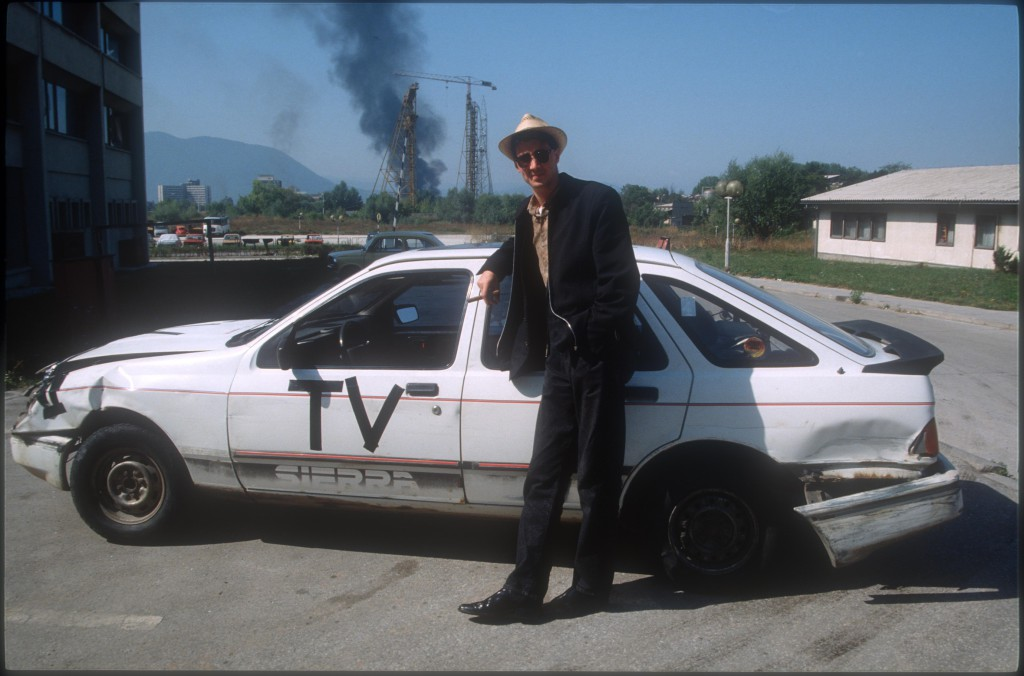
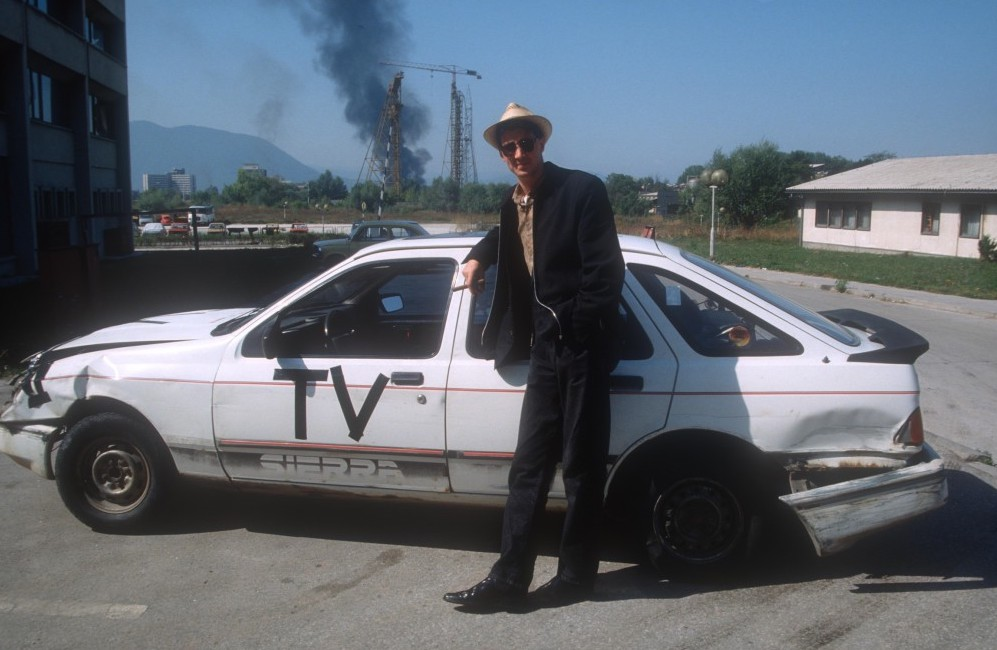
fixes_00

diff --git a/content/memoriam/paul-marchand.md b/content/memoriam/paul-marchand.md
@@ -2,8 +2,8 @@
 name: "Paul Marchand"
 born: 1961
 died: 2009
-banner: 00-PAUL-EN-2-scaled.jpg
-cover: cover.jpg
+banner: PAUL_MARCHAND_BANNER.jpg
+cover: PAUL_MARCHAND_COVER.jpg
 excerpt: "Paul Marchand was born on 1 October in 1961. in Amiens, France. He studied at the Institute for political science in Grenoble. Paul started his career as a journalist in a small private radio station "
 ---
 Paul Marchand was born on 1 October in 1961. in Amiens, France. He studied at the Institute for political science in Grenoble. Paul started his career as a journalist in a small private radio station ‘Radio 100’ managed by Hélène Tavelle. At the same time, he took criminology lessons and did internships at the hospital morgue. Barely 22 years old, he abandoned his studies and left to report in Beirut during their civil war. Six months later, he was a correspondent for Radio-France and several Canadian media. For many years, he was the only Western journalist to practice in West Beirut, on the Muslim side. The French government considering that he is in danger, forcibly expels him to Cyprus: Paul fled and returned to West Beirut.
@@ -41,8 +41,6 @@ The movie director Guillaume de Fontenay tried to collect funding for the movie 
 
 ![Paul Marchand](/media/memoriam/paul-marchand/03-PAUL.jpg)
 
-Trailer for the film ‘The Sympathy for the Devil’ you can watch here.
-
 “At the time, the war in Bosnia was intimately linked to the voice of Paul Marchand, whose stories I heard from Radio-Canada,” recalls the filmmaker who offers his first film. It is a conflict that shocked me; to see that the international community has left like this for four years of siege where dozens of civilians, on average, died every day. I still have this problem with our collective apathy: The same thing is repeated in Syria.” Guillaume de Fontenay
 
 Co-producer of ‘Sympathy for the Devil’ Amra Bakšić Čamo considers that a war reporter cannot separate himself from his subjects. “His book is thus more interesting since it depicts a journalist who leave a typical journalist atmosphere. Suddenly, he had friends who lose members of their family and are starving to death. For most journalists it is a sort of blitzkrieg: they come there for a while, write their story, go back home and strive not to bring those experiences into their everyday life. But for those who remained and were in Sarajevo for a long period of time, their lives have changed forever.” explains Amra, and afterwards she asks: “How did they manage to draw a line between objectivity and lives of the Sarajevo people? I think that we must always be conscious of the fact that we are not only making movies for tomorrow; we make movies for eternity. So, it is not only the matter of the direct impact of the movie distribution in Bosnia and Herzegovina or France in the present, but of the fact how will be this movie perceived 40 years after its premiere”, Amra Bakšić Čamo concludes.
@@ -58,6 +56,7 @@ Paul Marchand
 ![Paul Marchand](/media/memoriam/paul-marchand/08-PAUL.jpg)
 
 Paul and Boba having dinner before he was wounded. October 1993, Sarajevo.
+
 Photo © private archive
 
 Behind this brave man who came to the most dangerous place on earth, to convey the truth about the sufferings and killings of Sarajevans, there will be this book, this film ‘Sympathy for the Devil’ which will tell a story of a great love during the war. Love that ignited amidst war in the city that was about to be burnt and dead, in a city that survived all the bullets and bombs. Love was stronger than all of it. Slobodanka Boba Lizdek knows that very well.
@@ -81,7 +80,7 @@ He left us on 20 June 2009 in Paris, France.
 
 __
 
-Cover Photo: Emmanuel Ortiz
+
 Special thanks to: Slobodanki Boba Lizdek
 Translations: Asmir i Edina Demir
 Sources: Klix.ba, Oslobodjenje.ba, Azra.ba & BalkanInsight.com

diff --git a/content/memoriam/danilo-krstanovic.md b/content/memoriam/danilo-krstanovic.md
@@ -85,7 +85,9 @@ Peter Andrews
 
 ![Danilo Krstanovic](/media/memoriam/danilo-krstanovic/DANILO-09.jpg)
 
-Danilo Krstanovic and Peter Andrews helping a wounded woman, 28 August 1995.
+Danilo Krstanovic and Peter Andrews helping a wounded woman, 28 August 1995.  
+
+
 Rikard Larma
 
 During the war in Bosnia and Herzegovina, Danilo had two exhibitions about Sarajevo. The first one in 1993, titled Sarajevo War Pictures, and the second one titled Sarajevo. The exhibition toured Europe and in 1996 was donated to the Art Gallery of BIH. In addition to high artistic qualities, Danilo Krstanovic’s photos have great documentary value for the future study of the aggression against our country and all that it brought with it. He was a member of the Sarajevo Photo Club and was holder of the title First-Class Photographer. He participated in numerous exhibitions in Bosnia and abroad receiving many awards and commendations for his photographs.
@@ -96,7 +98,6 @@ During the war in Bosnia and Herzegovina, Danilo had two exhibitions about Saraj
 
 Danilo Krstanovic
 
-Danilo’s gallery of ‘Sarajevo Under Siege’
 
 During the war Danilo and his colleagues would count film strips by centimeters, they would weigh paper and chemicals by grams, take photographs, cry, suffer, starve but would not give up, out of spite to them. “This craziness will pass. Will you ever be able to look us in the eye? Better not, let the memories about our parties and barbecues until early morning hours stay intact. Let the memory of the Olympic Games live, when we used to work together as one. We used to go to the forest camping together. Today I don’t want to invite you to come back from your woods, you traitors. You betrayed the people and our honorable profession. That’s why you need to stay in the woods. Amongst the werewolves, where you belong.” Danilo Krstanovic
 
@@ -108,7 +109,8 @@ Danilo Krstanovic
 
 ![Danilo Krstanovic](/media/memoriam/danilo-krstanovic/DANILO-12.jpg)
 
-Newlyweds Emir i Sanela Klaric, 29 July 1995, Sarajevo.
+Newlyweds Emir i Sanela Klaric, 29 July 1995, Sarajevo.  
+
 Danilo Krstanovic
 
 ![Danilo Krstanovic](/media/memoriam/danilo-krstanovic/DANILO-10.jpg)
@@ -122,6 +124,9 @@ DANILO KRSTANOVIC was born on 17 July 1951 in Sarajevo, Bosnia and Herzegovina.
 He passed away on 12 May 2012, in his city, Sarajevo.
 
 
+
+  
+__  
 
 
 Special thanks to: Renata Krstanovic, Peter Andrews, Rikard Larma and Amel Emric

diff --git a/content/memoriam/gerard-rondeau.md b/content/memoriam/gerard-rondeau.md
@@ -5,7 +5,7 @@ died: 2016
 banner: 00-GERARD-scaled.jpg
 cover: cover.jpg
 photographer: gerard-rondeau-1953-2016
-excerpt: "Gérard Rondeau was born in Chalons-en-Champagne on 10 April in 1953, in a family of teachers. He studied in Reims and in the 1970s he worked at the Alliance Française in Colombo, Sri Lanka. The discov"
+excerpt: "Gérard Rondeau was born in Chalons-en-Champagne on 10 April in 1953, in a family of teachers. He studied in Reims and in the 1970s he worked at the Alliance Française in Colombo, Sri Lanka."
 ---
 Gérard Rondeau was born in Chalons-en-Champagne on 10 April in 1953, in a family of teachers. He studied in Reims and in the 1970s he worked at the Alliance Française in Colombo, Sri Lanka. The discovery of Henri Cartier-Bresson’s book about the USSR, in the library of the Alliance, was a revelation for him. As soon as he was back in Champagne, he launched his career as a self-taught photographer. or over more than twenty years, he maintained a close partnership with the newspaper Le Monde, producing a large portrait collection of painters and contemporary writers, with lasting friendships emerging from those interactions. He photographed the painter Paul Rebeyrolle in action and traveled the battlefields of the First World War with the novelist Yves Gibeau. He toured some of the most famous music venues in the world with the Ysaÿe Quartet. He also proceeded with the realization of an inventory of the streets that marked his life with the help of the writer Bernard Franck, as well as went up the Marne with Jean-Paul Kauffman.
 
@@ -24,7 +24,7 @@ Gérard Rondeau presented numerous solo shows in institutions such as the Galeri
 ![Gérard Rondeau](/media/memoriam/gerard-rondeau/03-GERARD.jpg)
 
 Sarajevo, January 1994
-Gérard Rondeau (his gallery of Sarajevo during the war )
+Gérard Rondeau
 
 ![Gérard Rondeau](/media/memoriam/gerard-rondeau/01-GERARD.jpg)
 

diff --git a/content/memoriam/anja-niedringhaus.md b/content/memoriam/anja-niedringhaus.md
@@ -2,8 +2,8 @@
 name: "Anja Niedringhaus"
 born: 1965
 died: 2014
-banner: 01-ANJA-scaled.jpg
-cover: cover.jpg
+banner: ANJA_NIEDRINGHAUS_BANNER.jpg
+cover: ANJA_NIEDRINGHAUS_COVER.jpg
 photographer: anja-niedringhaus-1965-2014
 excerpt: "Anja Niedringhaus was born in Höxter - North Rhine-Westphalia, Germany, and began working as a freelance photographer at age of 17 while still in high school."
 ---
@@ -75,7 +75,6 @@ In a memo to staff, AP President Gary Pruitt remembered Niedringhaus as “spiri
 ![Anja Niedringhaus](/media/memoriam/anja-niedringhaus/03-ANJA-Grave.jpg)
 
 Anja Niedringhaus eternal resting place in Höxter.
-You can watch short video of her funeral here.
 
 ![Anja Niedringhaus](/media/memoriam/anja-niedringhaus/ANJA-COVER-2.jpg)
 
